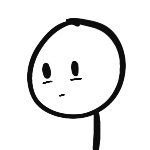
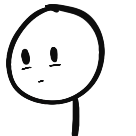
add better GUI'

Changed region(s): [[0.0294, 0.0294, 0.8529, 1.0], [0.2647, 0.3235, 0.5588, 0.6176], [0.3824, 0.6176, 0.4412, 0.6471]]

diff --git a/src/main/resources/images/stylesheet.css b/src/main/resources/images/stylesheet.css
@@ -1,7 +1,20 @@
-.textlabel{
+.dukespeech{
     -fx-background-radius: 10px;
+    -fx-focus-color: transparent;
 }
 
-.imageview{
+.roundify{
     -fx-background-radius: 10px;
+    -fx-focus-color: transparent;
+}
+
+.maximumround{
+    -fx-background-radius: 100px;
+    -fx-focus-color: transparent;
+}
+
+.button{
+    -fx-background-color: -fx-outer-border, -fx-inner-border, -fx-body-color;
+    -fx-background-insets: 0, 1, 2;
+    -fx-background-radius: 5, 4, 3;
 }

diff --git a/src/main/java/duke/gui/MainWindow.java b/src/main/java/duke/gui/MainWindow.java
@@ -1,13 +1,19 @@
 package duke.gui;
 
 import duke.Duke;
+import javafx.event.ActionEvent;
 import javafx.fxml.FXML;
 import javafx.scene.control.Button;
 import javafx.scene.control.ScrollPane;
 import javafx.scene.control.TextField;
+import javafx.scene.control.DatePicker;
+import javafx.scene.control.Tooltip;
 import javafx.scene.image.Image;
 import javafx.scene.layout.AnchorPane;
 import javafx.scene.layout.VBox;
+
+import java.time.LocalDate;
+import java.time.format.DateTimeFormatter;
 
 /**
  * Controller for MainWindow. Provides layout for the other controls.
@@ -21,16 +27,21 @@ public class MainWindow extends AnchorPane {
     private TextField userInput;
     @FXML
     private Button sendButton;
+    @FXML
+    private DatePicker datePicker;
 
     private Duke duke;
 
     private final Image userImage = new Image(this.getClass().getResourceAsStream("/images/user.png"));
     private final Image dukeImage = new Image(this.getClass().getResourceAsStream("/images/tebby.png"));
+    private final Image dukeHuhImage = new Image(this.getClass().getResourceAsStream("/images/tebbyHuh.png"));
+    private final Image dukeErrorImage = new Image(this.getClass().getResourceAsStream("/images/tebbyError.png"));
 
     @FXML
     public void initialize() {
         System.out.println("=================== [ Tebby started in GUI mode ] ===================");
         scrollPane.vvalueProperty().bind(dialogContainer.heightProperty());
+        datePicker.setTooltip(new Tooltip("Pick a date"));
         duke = new Duke();
         String welcomeMessage = duke.getWelcomeMessage();
         dialogContainer.getChildren().addAll(
@@ -42,6 +53,19 @@ public class MainWindow extends AnchorPane {
         duke = d;
     }
 
+    public void getDateText(ActionEvent event) {
+        try {
+            LocalDate date = datePicker.getValue();
+            String currentText = userInput.getText();
+            userInput.setText(currentText.strip() + " "
+                    + date.format(DateTimeFormatter.ofPattern("yyyy/MM/dd")));
+            datePicker.getEditor().clear();
+            datePicker.setValue(null);
+        } catch (NullPointerException e) {
+            System.out.println("DatePicker has been reset.");
+        }
+    }
+
     @FXML
     private void handleUserInput() {
         String input = userInput.getText();
@@ -49,7 +73,12 @@ public class MainWindow extends AnchorPane {
         String response = duke.getResponse(input);
         dialogContainer.getChildren().addAll(
                 new UserDialogBox(input, userImage),
-                new DukeDialogBox(response, dukeImage)
+
+                response.startsWith("><")
+                        ? new DukeErrorDialogBox(response, dukeErrorImage)
+                        : response.startsWith("Sorry")
+                            ? new DukeDialogBox(response, dukeHuhImage)
+                            : new DukeDialogBox(response, dukeImage)
         );
         userInput.clear();
     }

diff --git a/src/main/java/duke/util/Ui.java b/src/main/java/duke/util/Ui.java
@@ -18,7 +18,7 @@ import java.util.List;
  * >> bye
  *     --------------------------------------------------------------
  *     Have a good day! Tebby logging off...
- *     --------------------------------------------------------------
+ *     ----------------------------X---------------------------------
  */
 public class Ui {
 
@@ -27,6 +27,8 @@ public class Ui {
 
     /** The line for enclosing messages */
     private final String LINE = "    --------------------------------------------------------------";
+
+    private final String WELCOME_MESSAGE = "Hello! Tebby lives to serve :)\nType help for list of commands!";
 
     /**
      * Constructor for the Ui class.
@@ -51,7 +53,7 @@ public class Ui {
                 + "                                               `-'     `-'\n"
                 + "By: Andy Wu";
         System.out.println(logo);
-        sendMessage("Hello! Tebby lives to serve :)");
+        sendMessage(WELCOME_MESSAGE);
     }
 
     /**
@@ -149,13 +151,13 @@ public class Ui {
 
     public String getListOfCommands() {
         String[] commands = new String[]{
-                "help", "list", "todo <description>",
+                "list", "todo <description>",
                 "event <description> /at <date> [time]",
                 "deadline <description> /by <date> [time]",
                 "fixed <description> /for <duration>",
                 "done <task no.>", "remove <task no.>",
                 "remove all", "sort <name/type/datetime>",
-                "start <task no.> <date> <time>", "bye"
+                "start <task no.> <date> <time>"
         };
         StringBuilder sb = new StringBuilder("Here are the available commands:\n");
         for (String command: commands) {
@@ -166,6 +168,6 @@ public class Ui {
     }
 
     public String getGuiWelcomeMessage() {
-        return "Hello! Tebby lives to serve :)\nType help for list of commands!";
+        return WELCOME_MESSAGE;
     }
 }

diff --git a/src/main/java/duke/task/FixedDurationTask.java b/src/main/java/duke/task/FixedDurationTask.java
@@ -1,5 +1,3 @@
-// TODO: AddCommand add FixedDurationTask; Parser; StartTaskCommand; HelpCommand Ui
-
 package duke.task;
 
 import duke.util.DukeException;
@@ -121,12 +119,23 @@ public class FixedDurationTask extends Task {
     public String toString() {
         String info = "";
         if (startDate.isPresent() && startTime.isPresent()) {
-            info += String.format(" (start: %s, %s)",
-                    startDate.get().format(DateTimeFormatter.ofPattern("d MMM")),
+            LocalDate date = startDate.get();
+            String datePattern = (date.getYear() == LocalDate.now().getYear() ? "d MMM" : "d MMM yy");
+            info += String.format(" (at: %s, %s)",
+                    startDate.get().format(DateTimeFormatter.ofPattern(datePattern)),
                     startTime.get().format(DateTimeFormatter.ofPattern("h:mm a")));
         }
         long sec = duration.getSeconds();
-        info += String.format(" (for: %dh %dm)", sec / 3600, (sec % 3600) / 60);
+        long hr = sec / 3600;
+        long min = (sec % 3600) / 60;
+        info += " (for: ";
+        if (hr != 0) {
+            info += String.format("%d hr ", hr);
+        }
+        if (min != 0) {
+            info += String.format("%d min", min);
+        }
+        info += ")";
         return super.toString() + info;
     }
 }

diff --git a/src/main/java/duke/gui/DukeErrorDialogBox.java b/src/main/java/duke/gui/DukeErrorDialogBox.java
@@ -1,7 +1,5 @@
 package duke.gui;
 
-import java.io.IOException;
-
 import javafx.fxml.FXML;
 import javafx.fxml.FXMLLoader;
 import javafx.scene.control.Label;
@@ -9,18 +7,20 @@ import javafx.scene.image.Image;
 import javafx.scene.image.ImageView;
 import javafx.scene.layout.HBox;
 
+import java.io.IOException;
+
 /**
- * The javafx dialog box for Duke with standard messages
+ * The javafx dialog box for Duke with error messages
  */
-public class DukeDialogBox extends HBox {
+public class DukeErrorDialogBox extends HBox {
     @FXML
     private Label dialog;
     @FXML
     private ImageView displayPicture;
 
-    public DukeDialogBox(String text, Image img) {
+    public DukeErrorDialogBox(String text, Image img) {
         try {
-            FXMLLoader fxmlLoader = new FXMLLoader(MainWindow.class.getResource("/view/DukeDialogBox.fxml"));
+            FXMLLoader fxmlLoader = new FXMLLoader(MainWindow.class.getResource("/view/DukeErrorDialogBox.fxml"));
             fxmlLoader.setController(this);
             fxmlLoader.setRoot(this);
             fxmlLoader.load();

diff --git a/src/main/java/duke/task/Deadline.java b/src/main/java/duke/task/Deadline.java
@@ -2,6 +2,7 @@ package duke.task;
 
 import duke.util.DukeException;
 
+import java.time.LocalDate;
 import java.time.format.DateTimeFormatter;
 
 /**
@@ -22,8 +23,8 @@ public class Deadline extends TaskWithDateTime {
 
     @Override
     public String toString() {
-        String dt = String.format(" (by: %s",
-                date.format(DateTimeFormatter.ofPattern("d MMM")));
+        String pattern = (date.getYear() == LocalDate.now().getYear() ? "d MMM" : "d MMM yy");
+        String dt = String.format(" (by: %s", date.format(DateTimeFormatter.ofPattern(pattern)));
         if (time.isPresent()) {
             dt += String.format(", %s)",
                     time.get().format(DateTimeFormatter.ofPattern("h:mm a")));

diff --git a/src/main/java/duke/task/Event.java b/src/main/java/duke/task/Event.java
@@ -2,6 +2,7 @@ package duke.task;
 
 import duke.util.DukeException;
 
+import java.time.LocalDate;
 import java.time.format.DateTimeFormatter;
 
 /**
@@ -22,8 +23,8 @@ public class Event extends TaskWithDateTime {
 
     @Override
     public String toString() {
-        String dt = String.format(" (at: %s",
-                date.format(DateTimeFormatter.ofPattern("d MMM")));
+        String pattern = (date.getYear() == LocalDate.now().getYear() ? "d MMM" : "d MMM yy");
+        String dt = String.format(" (at: %s", date.format(DateTimeFormatter.ofPattern(pattern)));
         if (time.isPresent()) {
             dt += String.format(", %s)",
                     time.get().format(DateTimeFormatter.ofPattern("h:mm a")));

diff --git a/src/main/java/duke/util/Parser.java b/src/main/java/duke/util/Parser.java
@@ -65,9 +65,9 @@ public class Parser {
      */
     public static Command parse(String input) throws DukeException {
         String[] parsed = Parser.format(input);
-        String command = parsed[0];
+        String command = parsed[0].toLowerCase();
 
-        switch (command.toLowerCase()) {
+        switch (command) {
         case "bye":
         case "quit":
         case "exit":

diff --git a/src/main/java/duke/util/Storage.java b/src/main/java/duke/util/Storage.java
@@ -89,7 +89,7 @@ public class Storage {
                     if (t[1].equals("1")) {
                         fdt.markAsDone();
                     }
-                    if (t.length > 4) {
+                    if (!(t[4].equals(" "))) {
                         fdt.setStartDateTimeFromString(t[4]);
                     }
                     list.add(fdt);

diff --git a/src/main/java/duke/gui/UserDialogBox.java b/src/main/java/duke/gui/UserDialogBox.java
@@ -9,6 +9,9 @@ import javafx.scene.image.Image;
 import javafx.scene.image.ImageView;
 import javafx.scene.layout.HBox;
 
+/**
+ * The javafx dialog box for users
+ */
 public class UserDialogBox extends HBox {
     @FXML
     private Label dialog;

diff --git a/src/main/java/duke/util/DukeException.java b/src/main/java/duke/util/DukeException.java
@@ -15,6 +15,6 @@ public class DukeException extends Exception {
      * @param message the error message.
      */
     public DukeException(String message) {
-        super("!!Whoops!! " + message);
+        super(">< " + message);
     }
 }
